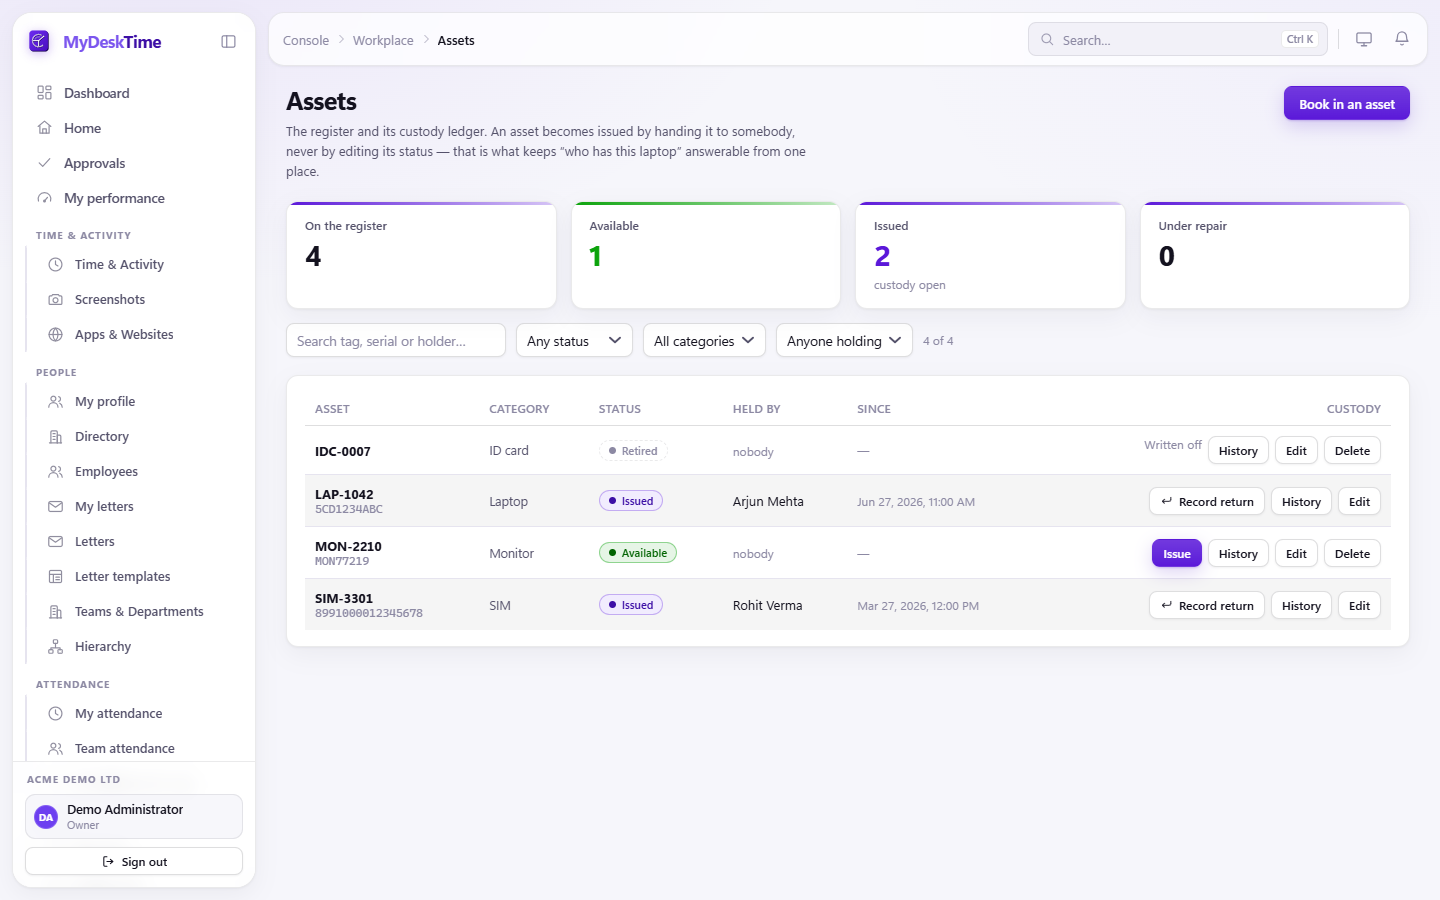
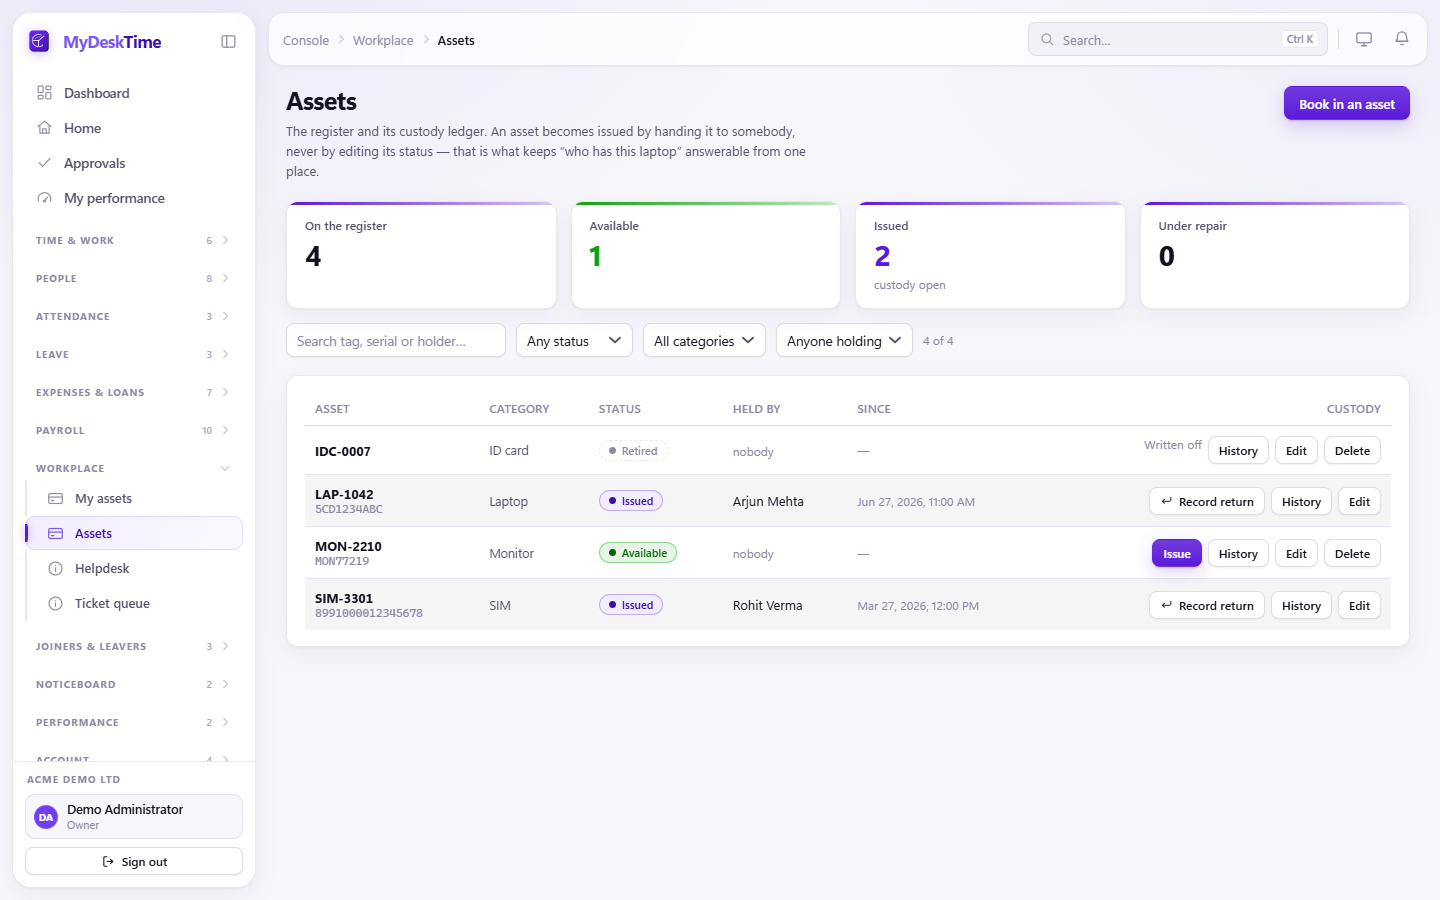
Collapse the nav into module groups
An administrator can reach about fifty pages, and the rail rendered every one
of them flat and open. That is a wall nobody scans — people stop reading at the
fold and use the command palette instead, which means the rail costs space
while doing nothing.

Groups now collapse. The heading is a disclosure button carrying a count, the
group holding the current page opens itself, and the rest stay shut until
asked. An admin sees four links and eleven headings instead of fifty-six rows.

Three rules decide whether a group renders open, in order:

1. It has no heading. Dashboard, Home and Approvals are what people come here
   to click and must never need a click to reveal.
2. The rail is collapsed to icons. Headings are not rendered at all in that
   mode, so a shut group would be items nobody can reach with no control to
   reach them with. Verified: all fifty-six links remain in the icon rail.
3. It holds the current page, or the reader opened it.

The active heading comes from `locate()` — the same function the breadcrumb and
the command palette already use — rather than tracked in state, so a group
cannot be shut while the reader is standing inside it.

Two groups were merged and one renamed, because collapsing only helps if the
headings match how people name things:

* 'Time & Activity' and 'Work' were one module under two headings five apart —
  timesheets, activity and projects all answer "what work happened". Now
  'Time & Work'.
[…]

Changed region(s): [[0.0312, 0.2489, 0.125, 0.6844], [0.0312, 0.7156, 0.125, 0.84]]

diff --git a/admin/src/App.tsx b/admin/src/App.tsx
@@ -1,7 +1,7 @@
-import { useEffect, useState } from 'react'
+import { useCallback, useEffect, useState } from 'react'
 import { NavLink, Navigate, Route, Routes, useLocation, useParams } from 'react-router-dom'
 import { canAdminister, canApproveSomething, canViewTeam, isOwner, useAuth } from './lib/auth'
-import { NAV } from './lib/nav'
+import { NAV, locate } from './lib/nav'
 import Brand from './components/Brand'
 import Topbar from './components/Topbar'
 import { Avatar } from './components/ui'
@@ -65,9 +65,24 @@ import MyOnboarding from './pages/hrms/onboarding/MyOnboarding'
 import Offboarding from './pages/hrms/offboarding/Offboarding'
 import EmployeeHome from './pages/hrms/home/EmployeeHome'
 import ApprovalsInbox from './pages/hrms/home/ApprovalsInbox'
-import { IconClose, IconPanel, IconSignOut } from './components/Icons'
+import { IconChevronRight, IconClose, IconPanel, IconSignOut } from './components/Icons'
 
 const COLLAPSE_KEY = 'hrdesktimesol.nav-collapsed'
+/* Which nav groups the reader has opened. Per-browser and per-person: two
+   people sharing a workspace organise their rail differently, and one of them
+   opening Payroll is not a statement about the other. */
+const OPEN_GROUPS_KEY = 'hrdesktimesol.nav-open-groups'
+
+function storedOpenGroups(): string[] {
+  try {
+    const raw = localStorage.getItem(OPEN_GROUPS_KEY)
+    return raw ? (JSON.parse(raw) as string[]) : []
+  } catch {
+    /* A private window, cleared site data, or a browser that throws on access.
+       An empty rail is a working rail — every group opens on click. */
+    return []
+  }
+}
 
 function Shell() {
   const { user, organization, logout } = useAuth()
@@ -90,10 +105,34 @@ function Shell() {
     () => localStorage.getItem(COLLAPSE_KEY) === '1',
   )
   const [drawerOpen, setDrawerOpen] = useState(false)
+  const [openGroups, setOpenGroups] = useState<string[]>(storedOpenGroups)
 
   useEffect(() => {
     localStorage.setItem(COLLAPSE_KEY, collapsed ? '1' : '0')
   }, [collapsed])
+
+  useEffect(() => {
+    try {
+      localStorage.setItem(OPEN_GROUPS_KEY, JSON.stringify(openGroups))
+    } catch {
+      /* Nothing to do and nothing to tell anybody: the rail still works, it
+         just forgets between visits. */
+    }
+  }, [openGroups])
+
+  /* The group holding the current page, from `locate` — the same function the
+     breadcrumb and the command palette use. Deriving it here rather than
+     tracking it in state means a group cannot be shut while the reader is
+     standing inside it, which would hide the page they are looking at. */
+  const activeHeading = locate(location.pathname, access)?.heading
+
+  const toggleGroup = useCallback((heading: string) => {
+    setOpenGroups((open) =>
+      open.includes(heading)
+        ? open.filter((name) => name !== heading)
+        : [...open, heading],
+    )
+  }, [])
 
   // A drawer left open over the page you just navigated to is a dead end on a
   // phone: the content is behind a scrim with no obvious way back.
@@ -160,10 +199,39 @@ function Shell() {
               !(item.page && hiddenPages.includes(item.page)),
           )
           if (items.length === 0) return null
+
+          /* Three ways a group is open, and the order matters:
+
+             1. It has no heading — the Dashboard/Home/Approvals rows, which are
+                what people come here to click and must never need a click to
+                reveal.
+             2. The rail is collapsed to icons. Headings are not rendered at all
+                in that mode, so a shut group would be items nobody can reach
+                and no control to reach them with.
+             3. It holds the current page, or the reader opened it. */
+          const isOpen =
+            !group.heading ||
+            collapsed ||
+            group.heading === activeHeading ||
+            openGroups.includes(group.heading)
+
           return (
             <div className="nav-section" key={group.heading ?? index}>
-              {group.heading && <div className="nav-group">{group.heading}</div>}
-              {items.map((item) => (
+              {group.heading && (
+                <button
+                  type="button"
+                  className={`nav-group nav-group-toggle${isOpen ? ' is-open' : ''}`}
+                  aria-expanded={isOpen}
+                  onClick={() => toggleGroup(group.heading!)}
+                >
+                  <span>{group.heading}</span>
+                  {/* Count only while shut. Open, the rows say it themselves,
+                      and a number beside them is furniture. */}
+                  {!isOpen && <span className="nav-group-count">{items.length}</span>}
+                  <IconChevronRight size={14} className="nav-chevron" />
+                </button>
+              )}
+              {isOpen && items.map((item) => (
                 <NavLink
                   key={item.to}
                   to={item.to}

diff --git a/admin/src/lib/nav.tsx b/admin/src/lib/nav.tsx
@@ -59,13 +59,26 @@ export interface NavGroup {
   items: NavItem[]
 }
 
-/* Grouped to match how the work is actually organised: what happened (Time &
-   Activity), who it happened to (Employees), and what it was for (Timesheets,
-   Projects). Flat lists of nine links stop being scannable at about six.
-
-   This lives outside App.tsx because three surfaces read it now — the rail, the
-   breadcrumb, and the command palette's Pages section. A second copy in any of
-   them is a link that silently stops existing when someone edits the other. */
+/* One group per module, and the rail collapses them.
+ *
+ * An administrator can reach about fifty pages. Rendered flat and open, that is
+ * a wall nobody scans — they stop reading at the fold and use the command
+ * palette instead, which means the rail is costing space while doing nothing.
+ * So the rail shows **headings** by default and opens one group at a time; the
+ * group holding the current page opens itself, and the rest stay shut until
+ * asked. An admin sees roughly sixteen rows instead of fifty.
+ *
+ * That only works if the grouping matches how people name things, so two
+ * headings describing one module were merged (see 'Time & Work' below) and one
+ * named for half its contents was renamed ('Expenses & Loans').
+ *
+ * The unheaded first group is deliberately not collapsible: Dashboard, Home and
+ * Approvals are the rows people come here to click, and putting them behind a
+ * disclosure would add a click to the three most-used links in the product.
+ *
+ * This lives outside App.tsx because three surfaces read it — the rail, the
+ * breadcrumb, and the command palette's Pages section. A second copy in any of
+ * them is a link that silently stops existing when someone edits the other. */
 export const NAV: NavGroup[] = [
   {
     items: [
@@ -77,12 +90,20 @@ export const NAV: NavGroup[] = [
       { to: '/me', label: 'My performance', icon: IconGauge },
     ],
   },
+  /* Timesheets, activity and projects were two groups — "Time & Activity" and
+     "Work" — sitting five headings apart while describing one module: what work
+     happened and what it was for. Somebody looking for a timesheet had no way
+     to guess which of the two it lived under. One group, ordered from the thing
+     people open daily to the thing they open monthly. */
   {
-    heading: 'Time & Activity',
+    heading: 'Time & Work',
     items: [
+      { page: 'timesheets', to: '/timesheets', label: 'Timesheets', icon: IconSheet, sub: true },
       { page: 'activity', to: '/activity', label: 'Time & Activity', icon: IconClock, sub: true },
-      { to: '/screenshots', label: 'Screenshots', icon: IconCamera, sub: true },
       { page: 'apps', to: '/apps', label: 'Apps & Websites', icon: IconGlobe, sub: true },
+      { to: '/screenshots', label: 'Screenshots', icon: IconCamera, sub: true },
+      { page: 'projects', to: '/projects', label: 'Projects', icon: IconFolder, sub: true },
+      { page: 'reports', to: '/reports', label: 'Reports', icon: IconChart, sub: true },
     ],
   },
   {
@@ -136,7 +157,7 @@ export const NAV: NavGroup[] = [
      surfaces (mine, approvals, payments, settings) and burying four links under
      a heading about assets and tickets makes none of them findable. */
   {
-    heading: 'Expenses',
+    heading: 'Expenses & Loans',
     items: [
       { to: '/expenses', label: 'My expenses', icon: IconCard, sub: true, end: true },
       { to: '/expenses/review', label: 'Approvals', icon: IconCheck, sub: true, teamOnly: true },
@@ -209,14 +230,6 @@ export const NAV: NavGroup[] = [
     ],
   },
   {
-    heading: 'Work',
-    items: [
-      { page: 'timesheets', to: '/timesheets', label: 'Timesheets', icon: IconSheet, sub: true },
-      { page: 'projects', to: '/projects', label: 'Projects', icon: IconFolder, sub: true },
-      { page: 'reports', to: '/reports', label: 'Reports', icon: IconChart, sub: true },
-    ],
-  },
-  {
     heading: 'Account',
     items: [
       { to: '/notifications', label: 'Notifications', icon: IconBell, sub: true },
@@ -231,6 +244,9 @@ export interface NavAccess {
   isAdmin: boolean
   canViewTeam: boolean
   isOwner: boolean
+  /** Whether they decide anything — wider than `canViewTeam`, because a finance
+   *  approver is routinely nobody's manager. See `canApproveSomething`. */
+  canApprove: boolean
   /** Page keys this person has been switched out of. */
   hiddenPages: string[]
 }
@@ -243,6 +259,7 @@ export function visibleItems(access: NavAccess): Array<NavItem & { heading?: str
         (item) =>
           (!item.adminOnly || access.isAdmin) &&
           (!item.teamOnly || access.canViewTeam) &&
+          (!item.approverOnly || access.canApprove) &&
           (!item.ownerOnly || access.isOwner) &&
           !(item.page && access.hiddenPages.includes(item.page)),
       )

diff --git a/admin/src/styles.css b/admin/src/styles.css
@@ -390,6 +390,39 @@ button, input, select, textarea { font: inherit; color: inherit; }
    a margin on the heading cannot be zeroed for the first one. */
 .nav-section + .nav-section { margin-top: 14px; }
 
+/* ------------------------------------------------- collapsible groups ---- */
+
+/* The heading is a button now. `.nav-group` itself is shared with the report
+   picker in org.css and stays a plain block there, so everything a button needs
+   resetting is scoped to this class rather than added to that one. */
+.nav-group-toggle {
+  display: flex; align-items: center; gap: 6px; width: 100%;
+  background: none; border: 0; cursor: pointer;
+  /* Inherits .nav-group's type; only the button chrome is removed. */
+  font: inherit; font-size: 10px; font-weight: 700;
+  letter-spacing: 0.09em; text-transform: uppercase;
+  color: var(--text-muted); text-align: left;
+  padding: 5px 11px; border-radius: 7px;
+}
+.nav-group-toggle:hover { color: var(--text-primary); background: var(--nav-hover, rgba(0,0,0,0.04)); }
+.nav-group-toggle:focus-visible { outline: 2px solid var(--brand); outline-offset: -2px; }
+.nav-group-toggle > span:first-child { flex: 1; min-width: 0; }
+
+/* How many rows are behind a shut heading. Only rendered while shut — open,
+   the rows are right there and a number beside them is furniture. */
+.nav-group-count {
+  flex: none; font-size: 10px; font-weight: 600; letter-spacing: 0;
+  color: var(--text-muted); opacity: 0.75;
+}
+
+/* Points right when shut, down when open. Rotating one glyph rather than
+   swapping two keeps the motion continuous and halves the icons to keep. */
+.nav-chevron {
+  flex: none; opacity: 0.6;
+  transition: transform 160ms cubic-bezier(0.4, 0, 0.2, 1);
+}
+.nav-group-toggle.is-open .nav-chevron { transform: rotate(90deg); }
+
 /* ------------------------------------------------------- collapsed rail -- */
 
 /* Icons only. Labels come back as native tooltips (title=), set in App.tsx —
@@ -402,6 +435,7 @@ button, input, select, textarea { font: inherit; color: inherit; }
 .shell-collapsed .brand-word,
 .shell-collapsed .nav-label,
 .shell-collapsed .nav-group,
+.shell-collapsed .nav-group-toggle,
 .shell-collapsed .foot-org,
 .shell-collapsed .foot-id { display: none; }
 .shell-collapsed .sidebar-head .brand { flex: none; justify-content: center; }
@@ -1749,6 +1783,7 @@ tbody tr:last-child td { border-bottom: none; }
   .shell-collapsed .brand-word,
   .shell-collapsed .nav-label,
   .shell-collapsed .nav-group,
+  .shell-collapsed .nav-group-toggle,
   .shell-collapsed .foot-org,
   .shell-collapsed .foot-id { display: revert; }
   .shell-collapsed .nav-link { justify-content: flex-start; height: auto; padding: 7px 11px; }

diff --git a/admin/src/components/Icons.tsx b/admin/src/components/Icons.tsx
@@ -9,19 +9,30 @@ import type { ReactNode } from 'react'
  * All are aria-hidden. Every icon here sits beside a visible text label, so
  * announcing it would only make screen readers say everything twice.
  */
-function Svg({ size = 17, children }: { size?: number; children: ReactNode }) {
+function Svg({
+  size = 17,
+  className,
+  children,
+}: {
+  size?: number
+  /* Only so the nav's disclosure chevron can be rotated by CSS. Icons are
+     otherwise styled entirely by `currentColor` from whatever contains them. */
+  className?: string
+  children: ReactNode
+}) {
   return (
     <svg
       width={size} height={size} viewBox="0 0 24 24" fill="none"
       stroke="currentColor" strokeWidth={1.7} strokeLinecap="round" strokeLinejoin="round"
-      aria-hidden="true" focusable="false" style={{ flex: 'none' }}
+      aria-hidden="true" focusable="false" className={className}
+      style={{ flex: 'none' }}
     >
       {children}
     </svg>
   )
 }
 
-type P = { size?: number }
+type P = { size?: number; className?: string }
 
 export const IconDashboard = (p: P) => (
   <Svg {...p}>
